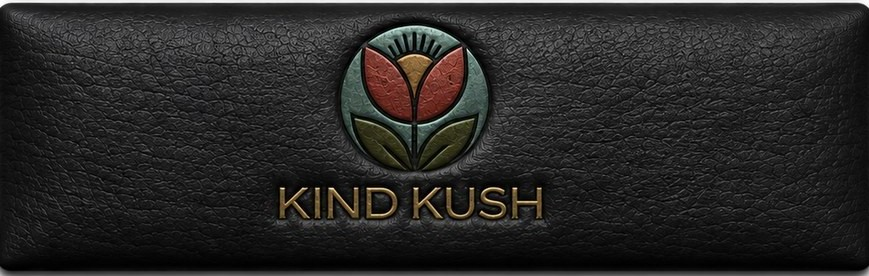
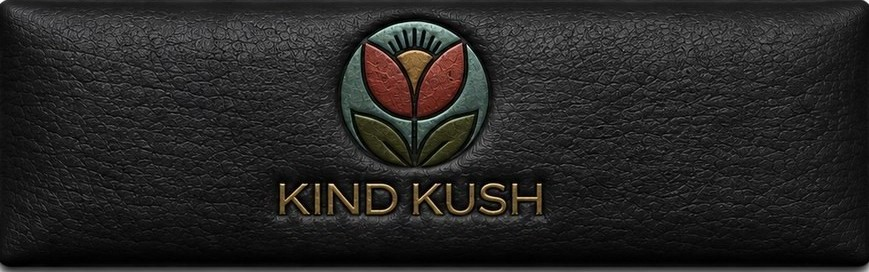
Add files via upload

diff --git a/index.html b/index.html
@@ -23,18 +23,27 @@
 
   html, body {
     height: 100%;
-    background: var(--bg);
+    background: #0a0a0a url('leather_bg.jpg');
+    background-size: 220px 220px;
+    background-repeat: repeat;
     color: var(--text);
     font-family: -apple-system, BlinkMacSystemFont, 'Segoe UI', sans-serif;
     overflow: hidden;
   }
 
-  /* ── HEADER (placeholder — customize me) ── */
+  /* ── HEADER (brushed metal + gold bands) ── */
   header {
-    padding: 38px 16px 32px;
-    text-align: center;
-    background: var(--header-bg);
-    border-bottom: 1px solid var(--border);
+    position: relative;
+    width: 100%;
+    aspect-ratio: 828 / 578;
+    background-image: url('header_bg.jpg');
+    background-size: 100% 100%;
+    background-repeat: no-repeat;
+    display: flex;
+    align-items: flex-end;
+    justify-content: center;
+    padding-bottom: 14px;
+    overflow: visible;
   }
 
   .logo {
@@ -59,8 +68,10 @@
     font-size: 104px;
     display: inline-block;
     position: relative;
-    top: 22px;
+    bottom: -28px;
     margin-right: -8px;
+    z-index: 5;
+    filter: drop-shadow(0 10px 8px rgba(0,0,0,0.65));
   }
 
   .logo .rest {
@@ -71,13 +82,19 @@
 
   /* ── MAIN SCROLLABLE STACK ── */
   .stack {
-    height: calc(100vh - 128px);
+    flex: 1;
     overflow-y: auto;
     -webkit-overflow-scrolling: touch;
     padding: 28px 18px 60px;
     display: flex;
     flex-direction: column;
     align-items: center;
+    background: transparent;
+  }
+
+  body {
+    display: flex;
+    flex-direction: column;
   }
 
   /* ── PLATE BUTTON (thin, original proportions) ── */
